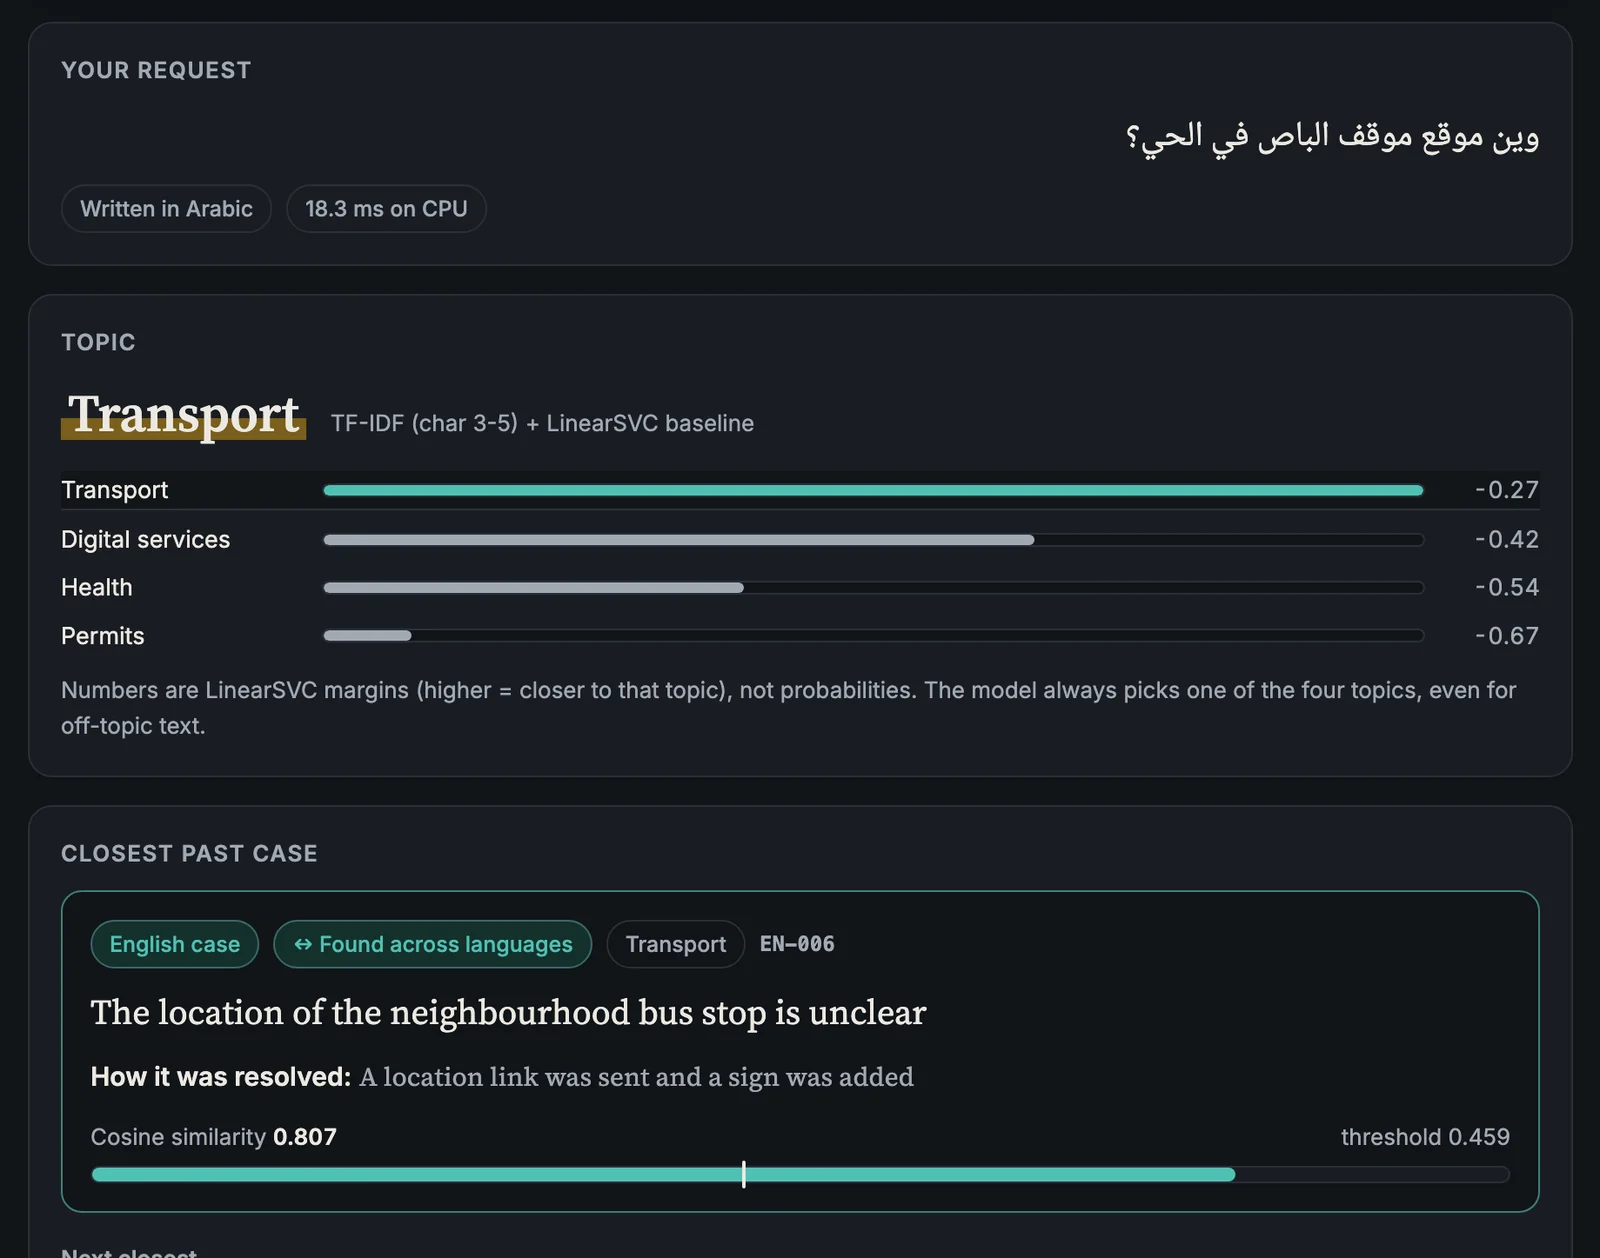
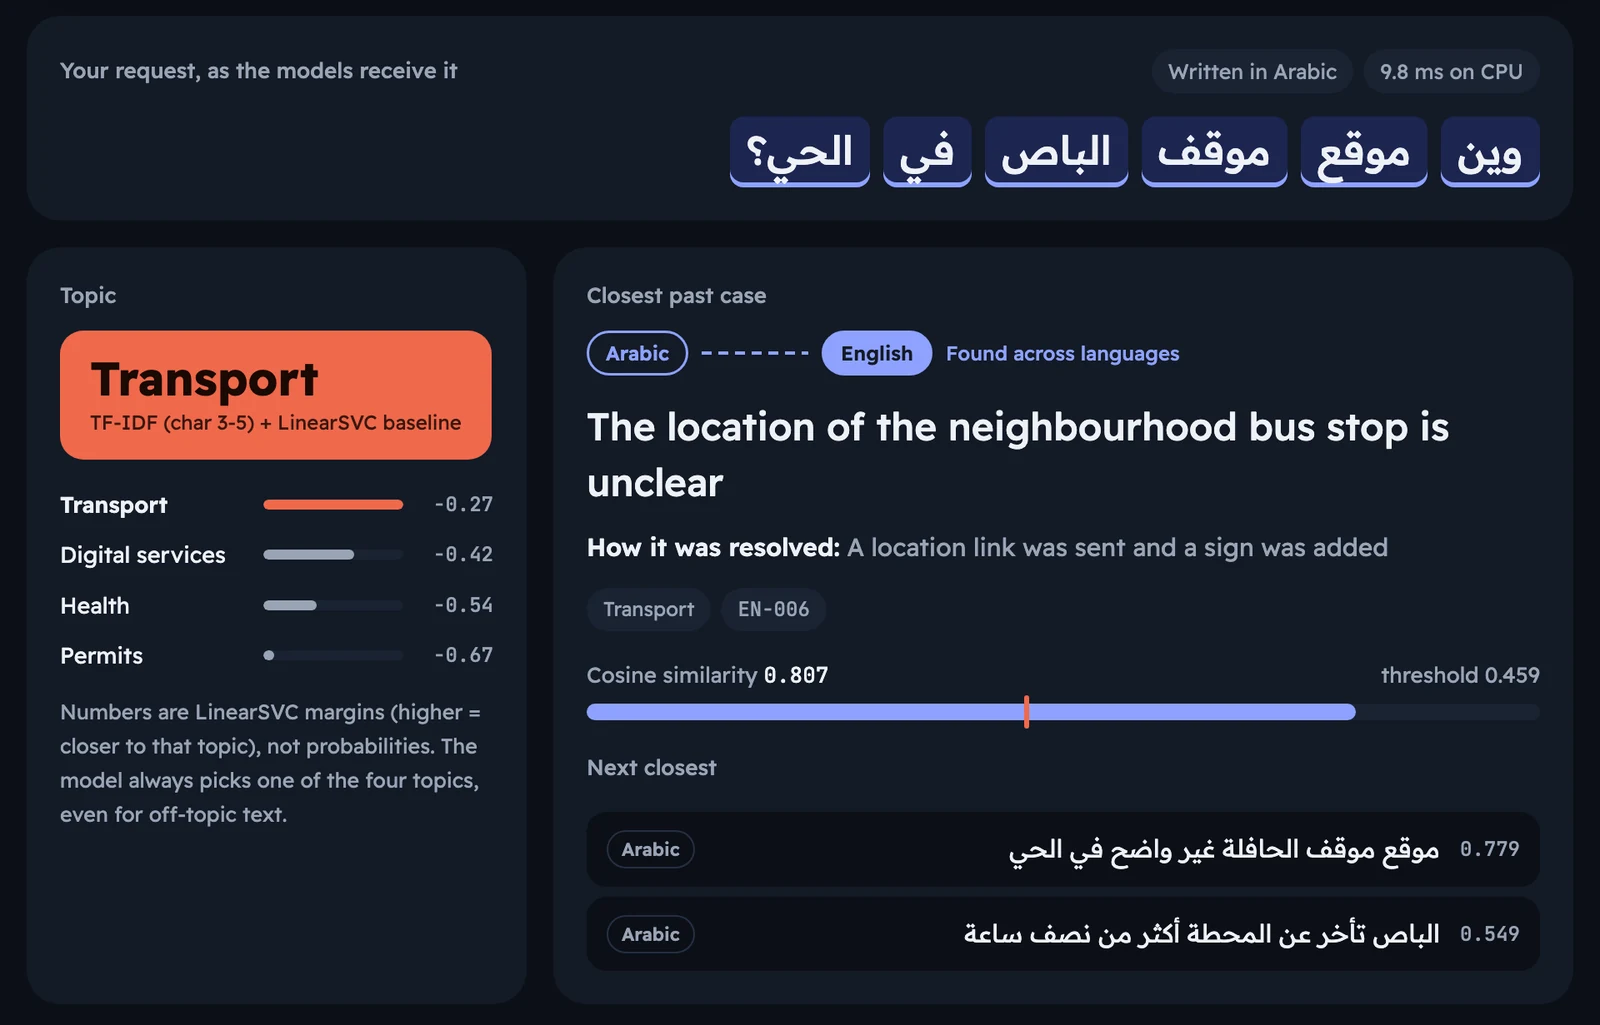
Bayan card: screenshot of the new demo identity

diff --git a/styles.css b/styles.css
@@ -367,7 +367,7 @@ a{color:#C9BEF7}a:hover{color:#F4E4B8}
 .card-hader .card-art,.card-bayan .card-art{display:grid;grid-template-columns:minmax(0,1fr) minmax(0,1fr)}
 .card-hader .card-visual,.card-bayan .card-visual{border-bottom:0;border-inline-end:1px solid var(--line)}
 .card-hader .shot img{aspect-ratio:1600 / 1160;object-fit:contain}
-.card-bayan .shot img{aspect-ratio:1600 / 1258;object-fit:contain}
+.card-bayan .shot img{aspect-ratio:1600 / 1025;object-fit:contain}
 @media (max-width: 960px){
   .card-hader .card-art,.card-bayan .card-art{display:flex}
   .card-hader .card-visual,.card-bayan .card-visual{border-inline-end:0;border-bottom:1px solid var(--line)}
